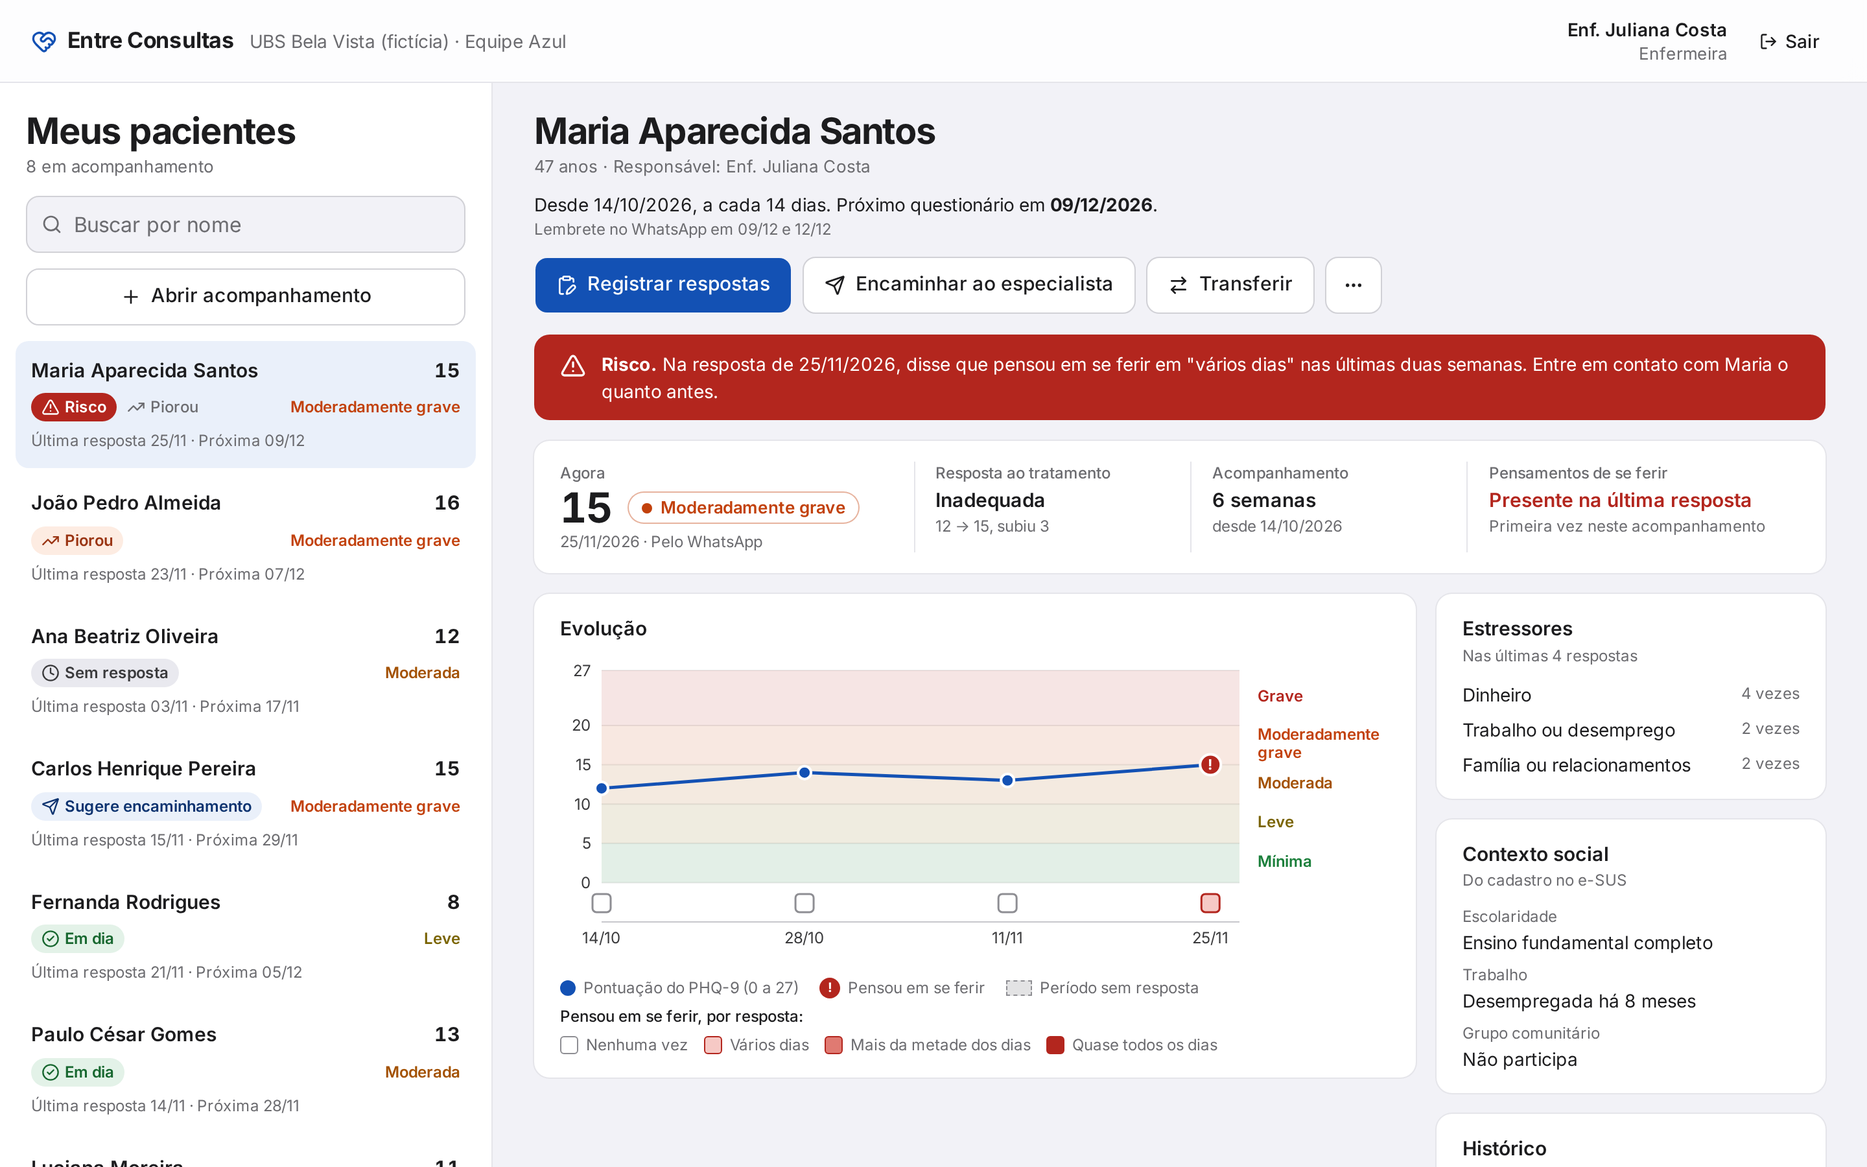
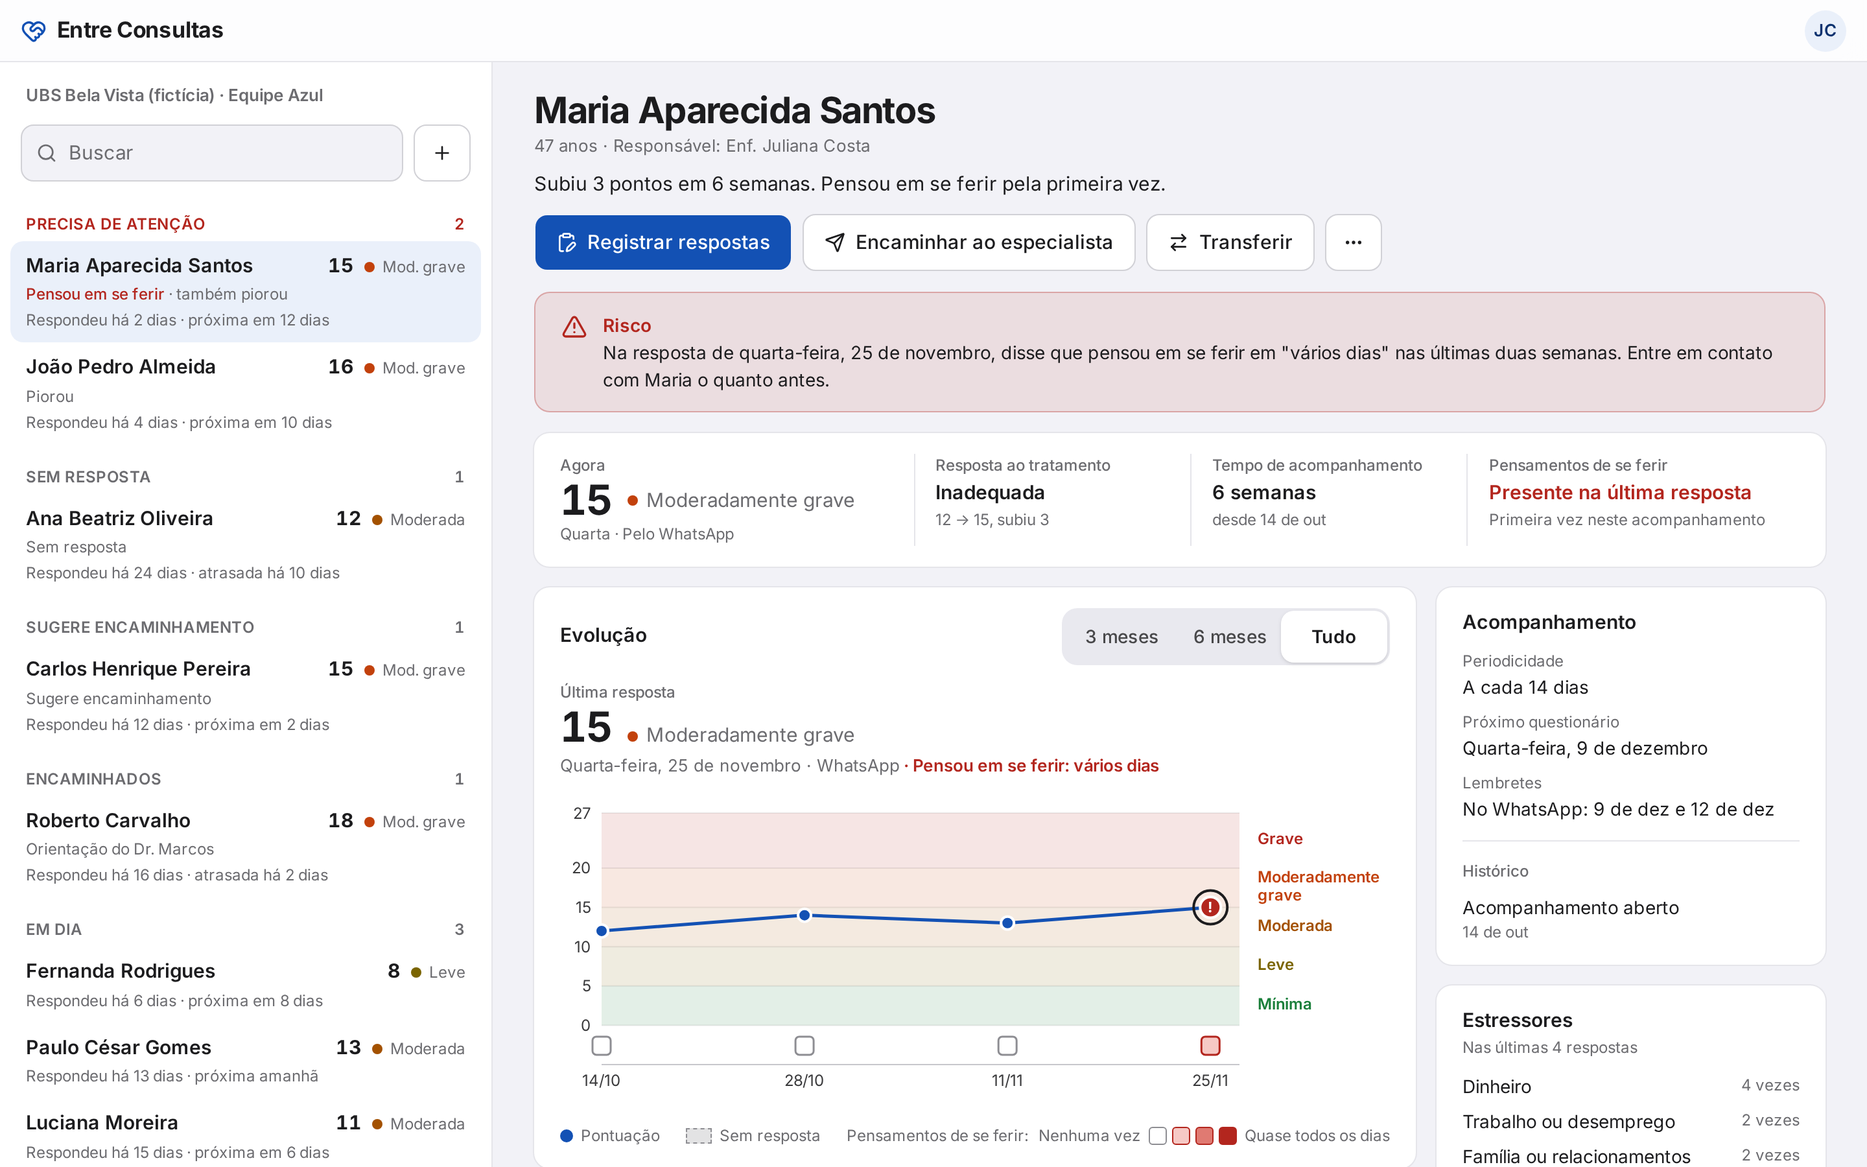
docs: spec, README e prints com R.F. 012 e login gov.br
Registra o R.F. 012 e a R.N. 011 da contrarreferência, a H.U. 009, a mudança do R.F. 001 e as novas regras da lista. Os prints passam de 18 para 20 (resposta do psiquiatra e orientação na ficha) e o README avisa que o gov.br é simulado.

diff --git a/scripts/prints.ts b/scripts/prints.ts
@@ -32,6 +32,8 @@ const PRINTS: Print[] = [
   { arquivo: '16-rf009-resumo', url: '/psiquiatra/encaminhamentos/roberto', usuario: 'marcos' },
   { arquivo: '17-rf010-lembrete-whatsapp', url: '/whatsapp?passo=lembrete', celular: true },
   { arquivo: '18-rf011-transferir', url: '/equipe/pacientes/joao?dialogo=transferir', usuario: 'juliana' },
+  { arquivo: '19-rf012-responder', url: '/psiquiatra/encaminhamentos/tereza?painel=responder', usuario: 'marcos' },
+  { arquivo: '20-rf012-orientacao', url: '/equipe/pacientes/roberto', usuario: 'juliana' },
 ]
 
 async function fotografar(browser: Browser, base: string, print: Print): Promise<string[]> {

diff --git a/docs/spec.md b/docs/spec.md
@@ -25,7 +25,7 @@ O paciente responde por três canais, o que quiser a cada vez: conversa no Whats
 
 | R.F. | Nome | Usuários | Dados | R.F. associados | R.N. associadas |
 |---|---|---|---|---|---|
-| 001 | Autenticar usuário | Todos | CPF, senha, perfil (paciente, profissional da unidade, psiquiatra) | todos | 005, 006 |
+| 001 | Autenticar usuário | Todos | CPF (vindo da conta gov.br), perfil (paciente, profissional da unidade, psiquiatra) | todos | 005, 006 |
 | 002 | Responder questionário | Paciente | canal (WhatsApp ou site), 9 respostas do PHQ-9 (0 a 3 cada), pontuação total (calculada, nunca mostrada ao paciente), estressores marcados (trabalho ou desemprego, família ou relacionamentos, dinheiro, saúde física, moradia, luto, outro com texto livre), data | 003, 006, 007, 010 | 001, 002, 004, 008 |
 | 003 | Ver respostas anteriores | Paciente | por resposta: data, canal, as 9 perguntas com a opção marcada, estressores | 002 | 005 |
 | 004 | Registrar respostas pelo paciente | Profissional da unidade | paciente, as mesmas respostas do R.F. 002, local (unidade ou visita domiciliar), profissional que registrou | 002, 007 | 001, 002 |
@@ -33,11 +33,12 @@ O paciente responde por três canais, o que quiser a cada vez: conversa no Whats
 | 006 | Listar pacientes acompanhados | Profissional da unidade | nome, última pontuação e faixa, data da última resposta, data prevista da próxima, destaque | 007, 011 | 001, 003, 008 |
 | 007 | Ver evolução do paciente | Profissional da unidade, Psiquiatra | gráfico das pontuações com faixas, respostas da pergunta 9, períodos sem resposta, canal de cada resposta, resposta ao tratamento, estressores mais marcados, contexto social do cadastro e-SUS | 002, 004, 008 | 003, 006, 007 |
 | 008 | Encaminhar ao especialista | Profissional da unidade | paciente, psiquiatra de destino, motivo, resumo gerado (pontuação inicial e atual, semanas de acompanhamento, pergunta 9 ao longo do tempo, estressores, contexto social), campos do profissional (prejuízo funcional, tratamentos já feitos), data | 007, 009 | 003, 006 |
-| 009 | Ver encaminhamentos recebidos | Psiquiatra | lista (paciente, unidade, data, motivo) e resumo do encaminhamento | 007, 008 | 006 |
+| 009 | Ver encaminhamentos recebidos | Psiquiatra | lista (paciente, situação, última pontuação e faixa, motivo, data) e resumo do encaminhamento | 007, 008, 012 | 006, 011 |
 | 010 | Receber lembrete do questionário | Paciente | celular, data prevista, botões "Responder aqui" (abre a conversa no WhatsApp) e "Responder no site" (link) | 002, 005 | 004, 009 |
 | 011 | Transferir paciente | Profissional da unidade | tipo (acompanhamento ou encaminhamento), destino, motivo (férias, afastamento, desligamento, outro), data, quem transferiu | 005, 006, 008 | 010 |
+| 012 | Responder encaminhamento | Psiquiatra, Profissional da unidade | data da consulta marcada; contrarreferência: conduta, medicação, quando reencaminhar, data. A unidade lê a situação e a orientação na evolução do paciente | 007, 008, 009 | 011 |
 
-No WhatsApp o paciente é reconhecido pelo número do cadastro, sem login; o login do R.F. 001 vale para o site. O resumo do R.F. 008 cobre o que a linha de cuidado exige no encaminhamento: quadro atual e ideação saem do sistema; prejuízo funcional e tratamentos já feitos o profissional preenche.
+No WhatsApp o paciente é reconhecido pelo número do cadastro, sem login; o login do R.F. 001 vale para o site e usa a conta gov.br para os três perfis. O resumo do R.F. 008 cobre o que a linha de cuidado exige no encaminhamento: quadro atual e ideação saem do sistema; prejuízo funcional e tratamentos já feitos o profissional preenche. O R.F. 012 fecha o ciclo: o encaminhamento volta para a unidade com a orientação do especialista, e a unidade continua coordenando o cuidado.
 
 ## Regras de negócio
 
@@ -50,9 +51,10 @@ No WhatsApp o paciente é reconhecido pelo número do cadastro, sem login; o log
 | R.N. 005 | Acesso | O paciente só vê as próprias respostas, sem pontuação, faixa, gráfico ou frase de evolução. A tela final do questionário diz só "Suas respostas foram enviadas para a sua equipe" |
 | R.N. 006 | Acesso | O psiquiatra só vê pacientes encaminhados a ele |
 | R.N. 007 | Leitura da evolução | Só para profissionais. Faixas: 0 a 4 mínima, 5 a 9 leve, 10 a 14 moderada, 15 a 19 moderadamente grave, 20 a 27 grave. Resposta ao tratamento, comparando com a primeira resposta do acompanhamento e só a partir de 4 semanas: queda de 5 ou mais é adequada, de 2 a 4 é possivelmente inadequada, de 1 ou menos é inadequada; antes de 4 semanas, "cedo para avaliar" |
-| R.N. 008 | Destaques da lista | Prioridade: Risco (R.N. 001); Piorou (a última pontuação está numa faixa acima da anterior); Sem resposta (7 dias depois da data prevista); Sugere encaminhamento (R.N. 003); Em dia. A lista ordena pelo destaque mais alto e mostra os outros como etiquetas. Destaque sempre com texto, nunca só cor |
+| R.N. 008 | Destaques da lista | Prioridade: Risco (R.N. 001); Piorou (a última pontuação está numa faixa acima da anterior); Sem resposta (7 dias depois da data prevista); Sugere encaminhamento (R.N. 003); Em dia. A lista agrupa pelo destaque mais alto, numa seção para cada um, e mostra os outros como texto na linha. Paciente com encaminhamento fica na seção Encaminhados. Destaque sempre com texto, nunca só cor |
 | R.N. 009 | Lembrete | WhatsApp na data prevista e de novo 3 dias depois, só para quem tem celular no cadastro, com os botões "Responder aqui" e "Responder no site". O texto do lembrete não leva dado de saúde |
 | R.N. 010 | Transferência | Qualquer profissional da mesma equipe transfere o acompanhamento para outro profissional da mesma equipe, ou redireciona um encaminhamento para outro psiquiatra. Motivo obrigatório. O histórico vai junto e a transferência fica registrada (quem, quando, motivo) |
+| R.N. 011 | Contrarreferência | O encaminhamento passa por Novo, Visto (quando o psiquiatra abre), Consulta marcada e Respondido (quando a orientação volta para a unidade). Conduta, medicação e quando reencaminhar são obrigatórios. O paciente continua sendo acompanhado pela unidade |
 
 ## Histórias de usuário
 
@@ -68,6 +70,7 @@ Formato: "Como um Papel, gostaria de Objetivo para Benefício".
 | 006 | Encaminhar com histórico | Profissional da unidade | encaminhar ao psiquiatra com o resumo gerado | o especialista receber a informação completa que a linha de cuidado pede | 008 |
 | 007 | Receber o caso com histórico | Psiquiatra | ver a evolução medida do paciente encaminhado | não começar do zero numa consulta curta | 009 |
 | 008 | Passar o paciente adiante | Profissional da unidade | transferir meus pacientes para um colega da equipe quando saio de férias ou deixo a unidade | o paciente não ficar sem responsável | 011 |
+| 009 | Saber o que o especialista orientou | Profissional da unidade | ler a conduta e a medicação definidas pelo psiquiatra na ficha do paciente | continuar o cuidado sem depender de papel ou telefonema | 012 |
 
 ## Casos de uso
 
@@ -77,7 +80,7 @@ Fronteira: Entre Consultas.
 |---|---|
 | Generalização de ator, nível 1 | Paciente ▷ Usuário; Profissional de saúde ▷ Usuário |
 | Generalização de ator, nível 2 | Profissional da unidade ▷ Profissional de saúde; Psiquiatra ▷ Profissional de saúde |
-| Associação | Usuário: Autenticar. Paciente: Responder questionário; Ver respostas anteriores; Receber lembrete do questionário. Profissional de saúde: Ver evolução do paciente. Profissional da unidade: Registrar respostas pelo paciente; Abrir acompanhamento; Encerrar acompanhamento; Listar pacientes acompanhados; Encaminhar ao especialista; Transferir paciente. Psiquiatra: Ver encaminhamentos recebidos |
+| Associação | Usuário: Autenticar. Paciente: Responder questionário; Ver respostas anteriores; Receber lembrete do questionário. Profissional de saúde: Ver evolução do paciente. Profissional da unidade: Registrar respostas pelo paciente; Abrir acompanhamento; Encerrar acompanhamento; Listar pacientes acompanhados; Encaminhar ao especialista; Transferir paciente. Psiquiatra: Ver encaminhamentos recebidos; Responder encaminhamento |
 | `<<include>>` | Abrir acompanhamento → Definir periodicidade; Encaminhar ao especialista → Gerar resumo do histórico |
 | `<<extend>>` | Responder questionário → Alertar risco (só quando a pergunta 9 é positiva) |
 | Generalização de caso de uso | WhatsApp ▷ Responder questionário; Site ▷ Responder questionário; Acompanhamento ▷ Transferir paciente; Encaminhamento ▷ Transferir paciente |
@@ -100,11 +103,13 @@ Fonte Inter. Fundo cinza-claro com cartões brancos, no jeito dos apps de celula
 | Faixas do PHQ-9 | Mínima `#1B7F3B`, Leve `#7A6400`, Moderada `#A35100`, Moderadamente grave `#C2410C`, Grave `#B3261E` |
 | Conversa do WhatsApp | topo `#008069`, fundo `#EFEAE2`, balão do paciente `#D9FDD3` |
 
-Toda cor de texto passa no contraste AA sobre o fundo em que aparece; o selo de faixa usa fundo branco porque o laranja da Moderada não passa sobre fundo tingido.
+Toda cor de texto passa no contraste AA sobre o fundo em que aparece. Cor forte só no que pede ação (risco); a faixa aparece como um ponto colorido ao lado do nome em texto secundário.
+
+A marca oficial do gov.br aparece só no botão "Entrar com gov.br" do login.
 
 ### Login
 
-CPF e senha, botão Entrar. Três contas de demonstração (paciente, profissional, psiquiatra), listadas no README, não na tela. O login aceita só essas contas e abre a tela do perfil.
+Um botão, "Entrar com gov.br", para os três perfis. A etapa do gov.br é simulada: a tela seguinte diz "Simulação do gov.br", pede CPF e senha das contas de demonstração (listadas no README) e não copia a página real do governo. O CPF identifica o perfil e abre a tela dele.
 
 ### Conversa do WhatsApp
 
@@ -137,25 +142,25 @@ Na carteira do Dr. Rafael Souza, médico de família da mesma equipe, mais seis 
 
 ### Início da equipe
 
-Sem paciente aberto, a área ao lado da lista mostra o resumo do dia: os pacientes agrupados pelo destaque principal, com pontuação e faixa, e os questionários previstos para os próximos 7 dias. Na lista, cada paciente tem um selo só, o do destaque principal; os outros destaques aparecem como texto (R.N. 008).
+A lista lateral é o resumo do dia: seções "Precisa de atenção", "Sem resposta", "Sugere encaminhamento", "Encaminhados" e "Em dia", cada paciente com nome, pontuação e faixa, os outros destaques em texto e o tempo relativo ("Respondeu há 2 dias, próxima em 12 dias"). Sem paciente aberto, a área ao lado mostra a data, quantos precisam de atenção e os questionários previstos para os próximos 7 dias. Setas do teclado trocam de paciente; o "+" ao lado da busca abre um acompanhamento.
 
 ### Tela R.F. 007: evolução do paciente
 
 Precisa ser fácil de entender; na consulta, é esta tela que o profissional mostra ao paciente.
 
-- Cabeçalho: nome, idade, responsável, início, periodicidade e próximo questionário.
-- Cartão "Agora": última pontuação, faixa (cor e texto), resposta ao tratamento em palavras e variação desde o início (ex.: "18 → 11, caiu 7"), semanas de acompanhamento e a leitura da pergunta 9 ("Presente há 4 semanas", "Ausente na última resposta").
-- Gráfico de linha com eixo de 0 a 27 e as cinco faixas coloridas ao fundo, rotuladas; marcador de alerta nas respostas com pergunta 9 positiva; linha interrompida nos períodos sem resposta; canal de cada resposta no detalhe do ponto. Embaixo do gráfico, um quadrado por resposta com a frequência da pergunta 9, em cor e no detalhe do ponto. Na tela, a pergunta 9 aparece como "pensamentos de se ferir".
-- Lateral: estressores mais marcados nas últimas 4 respostas e contexto social do e-SUS.
-- Botões: Registrar respostas, Encaminhar ao especialista e Transferir. Encerrar acompanhamento fica no menu "Mais ações".
+- Cabeçalho: nome, idade, responsável e uma frase com a tendência recente.
+- Cartão "Agora": última pontuação, faixa, resposta ao tratamento em palavras e variação desde o início (ex.: "18 → 11, caiu 7"), semanas de acompanhamento e a leitura da pergunta 9 ("Presente há 4 semanas", "Ausente na última resposta").
+- Gráfico de linha com eixo de 0 a 27 e as cinco faixas coloridas ao fundo, rotuladas; marcador de alerta nas respostas com pergunta 9 positiva; linha interrompida nos períodos sem resposta; o ponto escolhido aparece no topo do gráfico com data, pontuação, faixa e canal; período de 3 meses, 6 meses ou tudo. Embaixo do gráfico, um quadrado por resposta com a frequência da pergunta 9. Na tela, a pergunta 9 aparece como "pensamentos de se ferir".
+- Lateral: acompanhamento (início, periodicidade, próximo questionário, histórico), encaminhamento com a situação e a orientação do psiquiatra (R.F. 012), estressores mais marcados nas últimas 4 respostas e contexto social do e-SUS.
+- Botões: Registrar respostas, Encaminhar ao especialista e Transferir, que abrem painéis sobre a ficha. Encerrar acompanhamento fica no menu "Mais ações".
 
 A equipe da unidade vê a pontuação, a faixa e a pergunta 9, não as respostas item a item.
 
 ### Tela R.F. 009: encaminhamentos e resumo do psiquiatra
 
-Lista em tabela: paciente, unidade, última pontuação e faixa, pensamentos de se ferir, resposta ao tratamento, motivo e há quanto tempo chegou o encaminhamento. A ordem é pensamentos de se ferir na última resposta, depois a pontuação mais alta e, no empate, quem espera há mais tempo.
+Lista em tabela, em duas seções ("Para atender" e "Respondidos"): paciente, situação (ponto azul nos novos), última pontuação e faixa, motivo e quando chegou o encaminhamento. A ordem é pensamentos de se ferir na última resposta, depois a pontuação mais alta e, no empate, quem espera há mais tempo.
 
-Resumo: o texto do encaminhamento, o cartão "Agora", o mesmo gráfico e a tabela "Respostas ao longo do tempo", com cada pergunta (de 0 a 3) e cada estressor numa linha por data. Um painel fixo à direita abre na última resposta e mostra as nove perguntas por extenso, a resposta, a mudança desde a anterior e os estressores; troca de resposta pelas setas, pelos pontos do gráfico ou pelas datas da tabela. Só leitura. O painel e a tabela vão além do R.F. 007 e foram aprovados na revisão das telas.
+Resumo: o texto do encaminhamento, o cartão "Agora", o mesmo gráfico e a tabela "Respostas ao longo do tempo", com cada pergunta (de 0 a 3) e cada estressor numa linha por data. Um painel fixo à direita abre na última resposta e mostra as nove perguntas por extenso, a resposta, a mudança desde a anterior e os estressores; troca de resposta pelas setas, pelos pontos do gráfico ou pelas datas da tabela. O painel e a tabela vão além do R.F. 007 e foram aprovados na revisão das telas. Abrir o resumo marca o encaminhamento como visto; os botões "Marcar consulta" e "Responder à unidade" registram o R.F. 012.
 
 ### Boas práticas de UI
 
@@ -190,6 +195,8 @@ Script Playwright (`pnpm prints`) salva em `prints/`. Título no documento: "R.F
 | 16-rf009-resumo.png | Resumo do psiquiatra | web |
 | 17-rf010-lembrete-whatsapp.png | Lembrete com os dois botões | celular |
 | 18-rf011-transferir.png | Diálogo de transferência | web |
+| 19-rf012-responder.png | Psiquiatra respondendo à unidade | web |
+| 20-rf012-orientacao.png | Orientação do psiquiatra na ficha da unidade | web |
 
 ### Tecnologia do protótipo
 
@@ -201,16 +208,17 @@ Script Playwright (`pnpm prints`) salva em `prints/`. Título no documento: "R.F
 
 | Rota | Tela | Perfil |
 |---|---|---|
-| `/login` | Login | nenhum |
+| `/login` | Login com gov.br | nenhum |
+| `/login/govbr` | Simulação do gov.br | nenhum |
 | `/paciente` | Início do paciente | paciente |
 | `/paciente/questionario?passo=1..9, alerta, estressores, fim` | Questionário no site | paciente |
-| `/paciente/respostas` | Respostas anteriores | paciente |
+| `/paciente/respostas` e `/paciente/respostas/:id` | Respostas anteriores e uma resposta | paciente |
 | `/whatsapp?passo=lembrete, pergunta-N, alerta, estressores, mais, fim` | Conversa do WhatsApp da Ana | nenhum |
 | `/equipe` | Lista de pacientes | profissional |
-| `/equipe/abrir` | Abrir acompanhamento | profissional |
+| `/equipe/abrir` | Abrir acompanhamento (painel) | profissional |
 | `/equipe/pacientes/:id` (`?dialogo=encerrar` ou `transferir`) | Evolução, encerramento e transferência | profissional |
-| `/equipe/pacientes/:id/registrar` | Registrar respostas | profissional |
-| `/equipe/pacientes/:id/encaminhar` | Encaminhar ao especialista | profissional |
+| `/equipe/pacientes/:id/registrar` | Registrar respostas (painel sobre a ficha) | profissional |
+| `/equipe/pacientes/:id/encaminhar` | Encaminhar ao especialista (painel sobre a ficha) | profissional |
 | `/psiquiatra` | Encaminhamentos recebidos | psiquiatra |
 | `/psiquiatra/encaminhamentos/:id` | Resumo do psiquiatra | psiquiatra |
 
@@ -235,3 +243,4 @@ Toda tela existe por um R.F.; nada fora desta lista.
 | 009 | Ver encaminhamentos recebidos | 007 | 15, 16 |
 | 010 | Receber lembrete do questionário | | 17 |
 | 011 | Transferir paciente; Acompanhamento; Encaminhamento | 008 | 18 |
+| 012 | Responder encaminhamento | 009 | 19, 20 |

diff --git a/README.md b/README.md
@@ -19,7 +19,7 @@ Abra o endereço que o Vite mostrar (por padrão http://localhost:5173). Tudo fi
 
 ## Contas de demonstração
 
-Senha de todas: `demo1234`.
+O login é "Entrar com gov.br" para os três perfis. A etapa do gov.br é uma simulação do protótipo: não há integração real, e a tela seguinte pede o CPF e a senha abaixo. Senha de todas: `demo1234`.
 
 | Perfil | CPF | Abre em |
 |---|---|---|
@@ -34,7 +34,9 @@ A conversa do WhatsApp da paciente Ana Beatriz fica em `/whatsapp` e não pede l
 1. Em `/whatsapp`, responda como a Ana e marque "Vários dias" na última pergunta, sobre pensar em se ferir.
 2. Entre como Juliana: a Ana sobe para o topo da lista com o destaque Risco, e a evolução mostra o ponto novo com alerta e canal WhatsApp.
 3. Abra o Carlos, que aparece com "Sugere encaminhamento", e encaminhe para o Dr. Marcos.
-4. Entre como Marcos: o Carlos entra na lista de encaminhamentos na ordem de prioridade, e o resumo abre com as respostas completas no painel à direita.
+4. Entre como Marcos: o Carlos entra na lista de encaminhamentos como Novo, na ordem de prioridade, e o resumo abre com as respostas completas no painel à direita.
+5. No resumo do Carlos, marque a consulta e depois responda à unidade com conduta, medicação e quando reencaminhar.
+6. Volte como Juliana: a ficha do Carlos mostra a orientação do Dr. Marcos.
 
 ## Comandos
 
@@ -45,6 +47,6 @@ A conversa do WhatsApp da paciente Ana Beatriz fica em `/whatsapp` e não pede l
 | `pnpm preview` | Serve o build em http://localhost:4173 |
 | `pnpm test` | Testes das regras de domínio (Vitest) |
 | `pnpm lint` | oxlint |
-| `pnpm prints` | Gera os 18 prints em `prints/` e falha se houver contraste abaixo de AA |
+| `pnpm prints` | Gera os 20 prints em `prints/` e falha se houver contraste abaixo de AA |
 
 `pnpm prints` usa o Chromium do Playwright. Na primeira vez, rode `pnpm exec playwright install chromium`.
